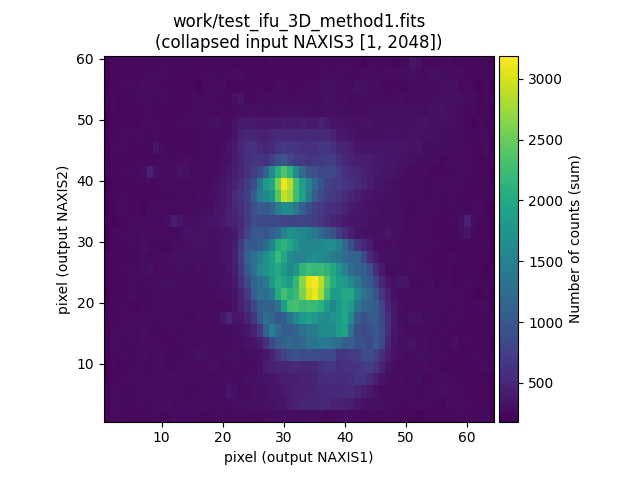
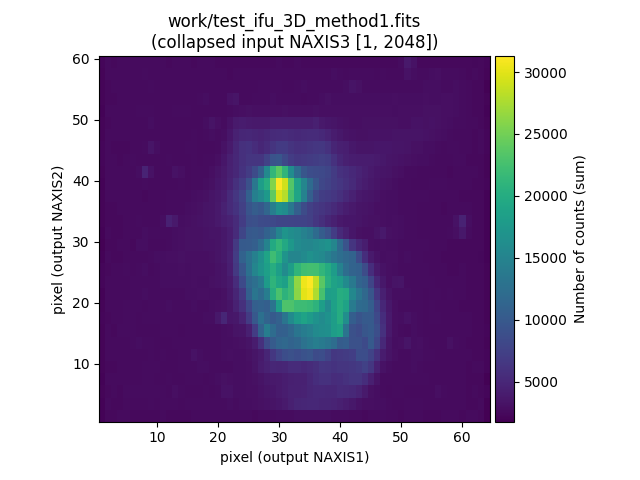
Update after changing --parallel by --ncores

diff --git a/tutorials/ifu_simulator/scene03/terminal_output.md b/tutorials/ifu_simulator/scene03/terminal_output.md
@@ -8,22 +8,24 @@ Scene file: scene03.yaml
 [32m* Processing: M51 DSS1[0m                                                          
 [36mWARNING: asumming scene_block[0m[1;36m[[0m[32m'wavelength_sampling'[0m[1;36m][0m[36m=[0m[32m'random'[0m                   
 [36mWARNING: asumming scene_block[0m[1;36m[[0m[32m'apply_seeing'[0m[1;36m][0m[36m=[0m[3;92mTrue[0m                              
-Number of photons to be simulated for this block: [1;36m1000000[0m                       
+Number of photons to be simulated for this block: [1;36m10000000[0m                      
 [36mWARNING: [0m[33mapply_seeing[0m[36m=[0m[3;92mTrue[0m[36m when [0m[33mseeing_fwhm_arcsec[0m[36m=[0m[1;36m<[0m[1;95mQuantity[0m[39m [0m[1;36m0[0m[39m. arcsec[0m[1;36m>[0m         
 Seeing effect will not be applied!                                              
 [32m* Processing: skycalc radiance[0m                                                  
 [36mWARNING: asumming scene_block[0m[1;36m[[0m[32m'wavelength_sampling'[0m[1;36m][0m[36m=[0m[32m'random'[0m                   
-Number of photons to be simulated for this block: [1;36m1000000[0m                       
+Number of photons to be simulated for this block: [1;36m10000000[0m                      
 Ignoring wave_unit: m [1m([0massuming nm[1m)[0m                                             
 Saving file: test_ifu_white2D_method0_os1.fits [1m([0m[33mBITPIX[0m=[1;36m16[0m[1m)[0m                      
 Saving file: test_ifu_white2D_method0_os10.fits [1m([0m[33mBITPIX[0m=[1;36m16[0m[1m)[0m                     
 Saving file: test_ifu_3D_method0.fits [1m([0m[33mBITPIX[0m=[1;36m16[0m[1m)[0m                               
 .........[1;36m10[0m.........[1;36m20[0m.........[1;36m30[0m
+Delta time: [1;36m5.0035178661346436[0m                                                  
 Saving file: test_rss_2D_method0.fits [1m([0m[33mBITPIX[0m=[1;36m16[0m[1m)[0m                               
 Saving file: test_detector_2D_method0.fits [1m([0m[33mBITPIX[0m=[1;36m-32[0m[1m)[0m                         
 .........[1;36m10[0m.........[1;36m20[0m.........[1;36m30[0m
+Delta time: [1;36m2.56889009475708[0m                                                    
 Saving file: test_rss_2D_method1.fits [1m([0m[33mBITPIX[0m=[1;36m-32[0m[1m)[0m                              
 Saving file: test_ifu_3D_method1.fits [1m([0m[33mBITPIX[0m=[1;36m-32[0m[1m)[0m                              
-Total time elapsed: [1;92m0:00:05[0m.[1;36m176177[0m                                              
+Total time elapsed: [1;92m0:00:18[0m.[1;36m898592[0m                                              
 [92m────────────────────────────────── [0m[1;35m Goodbye! [0m[92m ──────────────────────────────────[0m
 ```

diff --git a/tutorials/ifu_simulator/scene00/terminal_output.md b/tutorials/ifu_simulator/scene00/terminal_output.md
@@ -11,11 +11,13 @@ Saving file: test_ifu_white2D_method0_os1.fits [1m([0m[33mBITPIX[0m=[1;36m1
 Saving file: test_ifu_white2D_method0_os10.fits [1m([0m[33mBITPIX[0m=[1;36m16[0m[1m)[0m                     
 Saving file: test_ifu_3D_method0.fits [1m([0m[33mBITPIX[0m=[1;36m16[0m[1m)[0m                               
 .........[1;36m10[0m.........[1;36m20[0m.........[1;36m30[0m
+Delta time: [1;36m0.47272586822509766[0m                                                 
 Saving file: test_rss_2D_method0.fits [1m([0m[33mBITPIX[0m=[1;36m16[0m[1m)[0m                               
 Saving file: test_detector_2D_method0.fits [1m([0m[33mBITPIX[0m=[1;36m-32[0m[1m)[0m                         
 .........[1;36m10[0m.........[1;36m20[0m.........[1;36m30[0m
+Delta time: [1;36m2.519665002822876[0m                                                   
 Saving file: test_rss_2D_method1.fits [1m([0m[33mBITPIX[0m=[1;36m-32[0m[1m)[0m                              
 Saving file: test_ifu_3D_method1.fits [1m([0m[33mBITPIX[0m=[1;36m-32[0m[1m)[0m                              
-Total time elapsed: [1;92m0:00:03[0m.[1;36m853503[0m                                              
+Total time elapsed: [1;92m0:00:03[0m.[1;36m763125[0m                                              
 [92m────────────────────────────────── [0m[1;35m Goodbye! [0m[92m ──────────────────────────────────[0m
 ```

diff --git a/tutorials/ifu_simulator/scene01/terminal_output.md b/tutorials/ifu_simulator/scene01/terminal_output.md
@@ -13,11 +13,13 @@ Saving file: test_ifu_white2D_method0_os1.fits [1m([0m[33mBITPIX[0m=[1;36m-
 Saving file: test_ifu_white2D_method0_os10.fits [1m([0m[33mBITPIX[0m=[1;36m16[0m[1m)[0m                     
 Saving file: test_ifu_3D_method0.fits [1m([0m[33mBITPIX[0m=[1;36m16[0m[1m)[0m                               
 .........[1;36m10[0m.........[1;36m20[0m.........[1;36m30[0m
+Delta time: [1;36m40.70811915397644[0m                                                   
 Saving file: test_rss_2D_method0.fits [1m([0m[33mBITPIX[0m=[1;36m16[0m[1m)[0m                               
 Saving file: test_detector_2D_method0.fits [1m([0m[33mBITPIX[0m=[1;36m-32[0m[1m)[0m                         
 .........[1;36m10[0m.........[1;36m20[0m.........[1;36m30[0m
+Delta time: [1;36m2.570781946182251[0m                                                   
 Saving file: test_rss_2D_method1.fits [1m([0m[33mBITPIX[0m=[1;36m-32[0m[1m)[0m                              
 Saving file: test_ifu_3D_method1.fits [1m([0m[33mBITPIX[0m=[1;36m-32[0m[1m)[0m                              
-Total time elapsed: [1;92m0:01:18[0m.[1;36m243415[0m                                              
+Total time elapsed: [1;92m0:01:15[0m.[1;36m912423[0m                                              
 [92m────────────────────────────────── [0m[1;35m Goodbye! [0m[92m ──────────────────────────────────[0m
 ```

diff --git a/tutorials/ifu_simulator/scene02/terminal_output.md b/tutorials/ifu_simulator/scene02/terminal_output.md
@@ -19,11 +19,13 @@ Saving file: test_ifu_white2D_method0_os1.fits [1m([0m[33mBITPIX[0m=[1;36m1
 Saving file: test_ifu_white2D_method0_os10.fits [1m([0m[33mBITPIX[0m=[1;36m16[0m[1m)[0m                     
 Saving file: test_ifu_3D_method0.fits [1m([0m[33mBITPIX[0m=[1;36m16[0m[1m)[0m                               
 .........[1;36m10[0m.........[1;36m20[0m.........[1;36m30[0m
+Delta time: [1;36m0.8952891826629639[0m                                                  
 Saving file: test_rss_2D_method0.fits [1m([0m[33mBITPIX[0m=[1;36m16[0m[1m)[0m                               
 Saving file: test_detector_2D_method0.fits [1m([0m[33mBITPIX[0m=[1;36m-32[0m[1m)[0m                         
 .........[1;36m10[0m.........[1;36m20[0m.........[1;36m30[0m
+Delta time: [1;36m2.550081968307495[0m                                                   
 Saving file: test_rss_2D_method1.fits [1m([0m[33mBITPIX[0m=[1;36m-32[0m[1m)[0m                              
 Saving file: test_ifu_3D_method1.fits [1m([0m[33mBITPIX[0m=[1;36m-32[0m[1m)[0m                              
-Total time elapsed: [1;92m0:00:04[0m.[1;36m291180[0m                                              
+Total time elapsed: [1;92m0:00:04[0m.[1;36m276027[0m                                              
 [92m────────────────────────────────── [0m[1;35m Goodbye! [0m[92m ──────────────────────────────────[0m
 ```

diff --git a/tutorials/ifu_simulator/files/help2_fridadrp-ifu_simulator.md b/tutorials/ifu_simulator/files/help2_fridadrp-ifu_simulator.md
@@ -22,7 +22,7 @@
                               [[36m--flatpix2pix[0m [38;5;36m{default,none}[0m]
                               [[36m--spectral_blurring_pixel[0m [38;5;36mSPECTRAL_BLURRING_PIXEL[0m]
                               [[36m--bitpix_detector[0m [38;5;36m{-32,16}[0m] [[36m--seed[0m [38;5;36mSEED[0m]
-                              [[36m--parallel[0m]
+                              [[36m--ncores[0m [38;5;36mNCORES[0m]
                               [[36m--prefix_intermediate_FITS[0m [38;5;36mPREFIX_INTERMEDIATE_FITS[0m]
                               [[36m--stop_after_ifu_3D_method0[0m] [[36m--plots[0m]
                               [[36m--log-level[0m [38;5;36m{DEBUG,INFO,WARNING,ERROR,CRITICAL}[0m]
@@ -70,7 +70,7 @@
   [36m--bitpix_detector[0m [38;5;36m{-32,16}[0m
                         [39mBITPIX value for the detector output FITS file[0m
   [36m--seed[0m [38;5;36mSEED[0m           [39mSeed for random number generator[0m
-  [36m--parallel[0m            [39mUse parallel processing[0m
+  [36m--ncores[0m [38;5;36mNCORES[0m       [39mNumber of cores to use for parallel processing[0m
   [36m--prefix_intermediate_FITS[0m [38;5;36mPREFIX_INTERMEDIATE_FITS[0m
                         [39mPrefix for intermediate FITS files[0m
   [36m--stop_after_ifu_3D_method0[0m

diff --git a/tutorials/ifu_simulator/script_arguments.md b/tutorials/ifu_simulator/script_arguments.md
@@ -199,16 +199,19 @@ Seed to initialize the [Numpy Random
 Generator](https://numpy.org/doc/stable/reference/random/generator.html). By
 default is set to a particular integer sequence (`1234`).
 
-(--parallel)=
+(--ncores)=
 
-## <code>--parallel</code>
+## <code>--ncores &lt;integer&gt;</code>
 
-If this option is used, the code executes using `joblib.Parallel`, which
-increases execution speed.
+If this number is greater than 1, the code executes using `multiprocessing`.
 
 ```{warning}
-In some cases, we have found problems (incorrect array values) in the resulting
-simulated images when using `--parallel`. Use this option with caution.
+The initial tests reveal that adding more parallel processes beyond a small
+number does not help: it simply increases contention on the memory bus, and the
+overhead of managing additional processes begins to dominate. In fact, in some
+cases using more than one process can even degrade performance due to this
+increased contention and overhead. This option is kept only for testing
+purposes.
 ```
 
 (--prefix_intermediate_FITS)=

diff --git a/tutorials/ifu_simulator/files/help1_fridadrp-ifu_simulator.md b/tutorials/ifu_simulator/files/help1_fridadrp-ifu_simulator.md
@@ -22,7 +22,7 @@
                               [[36m--flatpix2pix[0m [38;5;36m{default,none}[0m]
                               [[36m--spectral_blurring_pixel[0m [38;5;36mSPECTRAL_BLURRING_PIXEL[0m]
                               [[36m--bitpix_detector[0m [38;5;36m{-32,16}[0m] [[36m--seed[0m [38;5;36mSEED[0m]
-                              [[36m--parallel[0m]
+                              [[36m--ncores[0m [38;5;36mNCORES[0m]
                               [[36m--prefix_intermediate_FITS[0m [38;5;36mPREFIX_INTERMEDIATE_FITS[0m]
                               [[36m--stop_after_ifu_3D_method0[0m] [[36m--plots[0m]
                               [[36m--log-level[0m [38;5;36m{DEBUG,INFO,WARNING,ERROR,CRITICAL}[0m]
